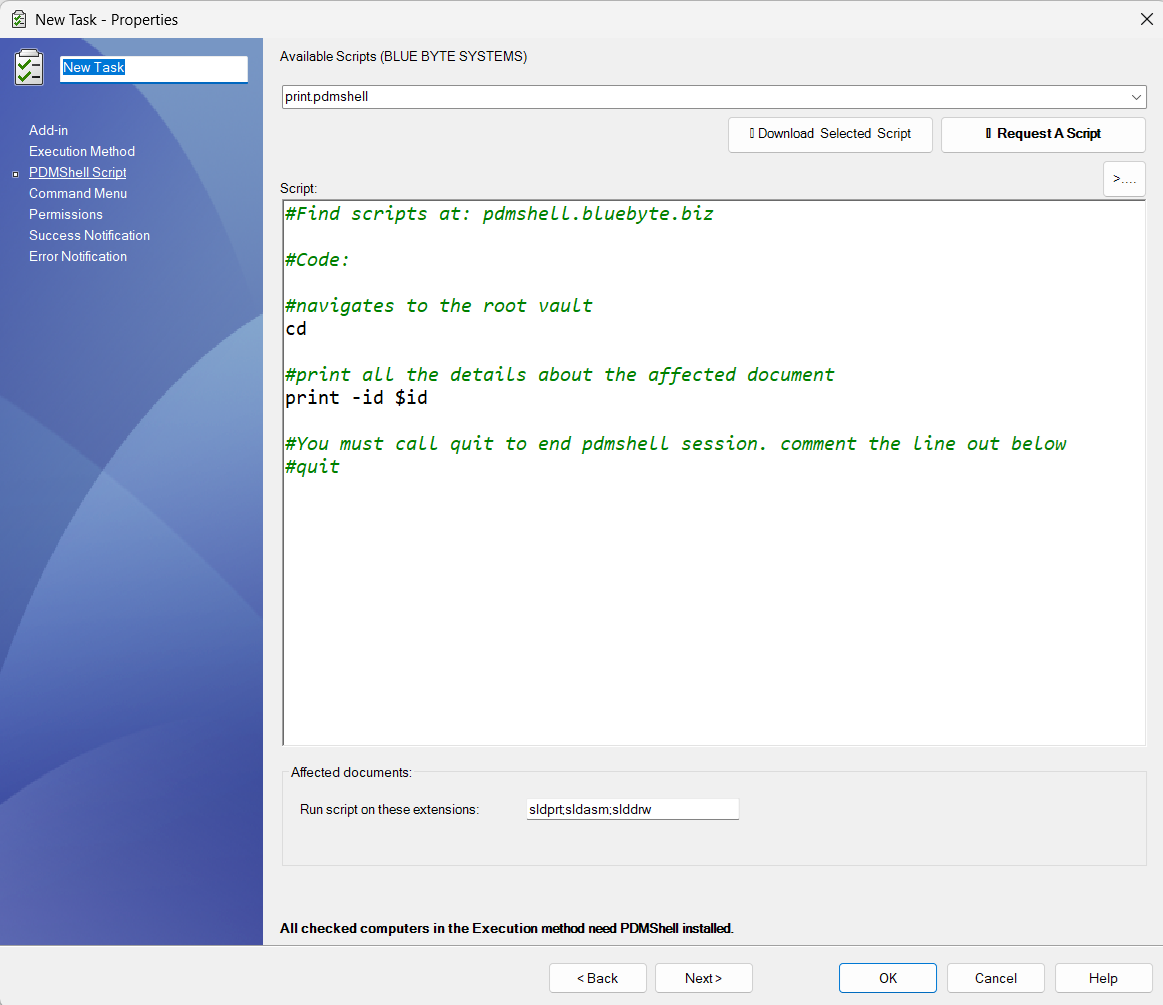
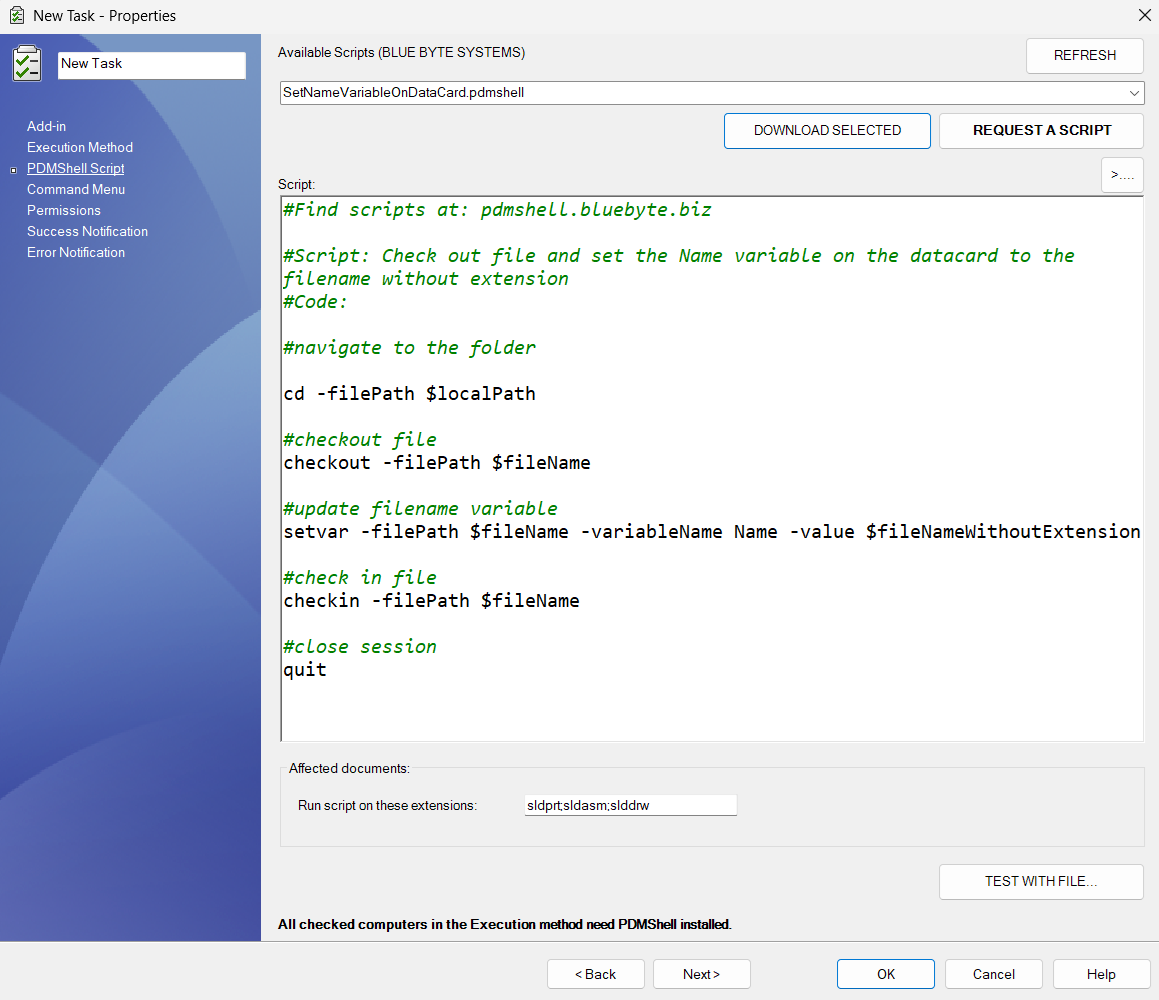
added docs

diff --git a/docs/src/RUNTASK.html b/docs/src/RUNTASK.html
@@ -1,0 +1,133 @@
+<!DOCTYPE html>
+<html>
+  <head>
+    <meta charset="utf-8">
+      <title>RUNTASK Command Documentation | PDMShell | SOLIDWORKS PDM | Powershell like features for SOLIDWORKS PDM Professional </title>
+      <meta name="viewport" content="width=device-width, initial-scale=1.0">
+      <meta name="title" content="RUNTASK Command Documentation | PDMShell | SOLIDWORKS PDM | Powershell like features for SOLIDWORKS PDM Professional ">
+      
+      <meta name="description" content="Execute a PDM task on specific file found or via search in the PDM vault.">
+      <link rel="icon" href="../favicon.ico">
+      <link rel="stylesheet" href="../public/docfx.min.css">
+      <link rel="stylesheet" href="../public/main.css">
+      <meta name="docfx:navrel" content="../toc.html">
+      <meta name="docfx:tocrel" content="toc.html">
+      
+      <meta name="docfx:rel" content="../">
+      
+      
+      <meta name="docfx:docurl" content="https://github.com/BlueByteSystemsInc/PDMShell/blob/master/src/RUNTASK.md/#L1">
+      <meta name="loc:inThisArticle" content="In this article">
+      <meta name="loc:searchResultsCount" content="{count} results for &quot;{query}&quot;">
+      <meta name="loc:searchNoResults" content="No results for &quot;{query}&quot;">
+      <meta name="loc:tocFilter" content="Filter by title">
+      <meta name="loc:nextArticle" content="Next">
+      <meta name="loc:prevArticle" content="Previous">
+      <meta name="loc:themeLight" content="Light">
+      <meta name="loc:themeDark" content="Dark">
+      <meta name="loc:themeAuto" content="Auto">
+      <meta name="loc:changeTheme" content="Change theme">
+      <meta name="loc:copy" content="Copy">
+      <meta name="loc:downloadPdf" content="Download PDF">
+
+      <script type="module" src="./../public/docfx.min.js"></script>
+
+      <script>
+        const theme = localStorage.getItem('theme') || 'auto'
+        document.documentElement.setAttribute('data-bs-theme', theme === 'auto' ? (window.matchMedia('(prefers-color-scheme: dark)').matches ? 'dark' : 'light') : theme)
+      </script>
+
+  </head>
+
+  <body class="tex2jax_ignore" data-layout="" data-yaml-mime="">
+    <header class="bg-body border-bottom">
+      <nav id="autocollapse" class="navbar navbar-expand-md" role="navigation">
+        <div class="container-xxl flex-nowrap">
+          <a class="navbar-brand" href="../index.html">
+            <img id="logo" class="svg" src="../images/fav.png" alt="PDMShell">
+            PDMShell
+          </a>
+          <button class="btn btn-lg d-md-none border-0" type="button" data-bs-toggle="collapse" data-bs-target="#navpanel" aria-controls="navpanel" aria-expanded="false" aria-label="Toggle navigation">
+            <i class="bi bi-three-dots"></i>
+          </button>
+          <div class="collapse navbar-collapse" id="navpanel">
+            <div id="navbar">
+              <form class="search" role="search" id="search">
+                <i class="bi bi-search"></i>
+                <input class="form-control" id="search-query" type="search" disabled placeholder="Search" autocomplete="off" aria-label="Search">
+              </form>
+            </div>
+          </div>
+        </div>
+      </nav>
+    </header>
+
+    <main class="container-xxl">
+      <div class="toc-offcanvas">
+        <div class="offcanvas-md offcanvas-start" tabindex="-1" id="tocOffcanvas" aria-labelledby="tocOffcanvasLabel">
+          <div class="offcanvas-header">
+            <h5 class="offcanvas-title" id="tocOffcanvasLabel">Table of Contents</h5>
+            <button type="button" class="btn-close" data-bs-dismiss="offcanvas" data-bs-target="#tocOffcanvas" aria-label="Close"></button>
+          </div>
+          <div class="offcanvas-body">
+            <nav class="toc" id="toc"></nav>
+          </div>
+        </div>
+      </div>
+
+      <div class="content">
+        <div class="actionbar">
+          <button class="btn btn-lg border-0 d-md-none" type="button" data-bs-toggle="offcanvas" data-bs-target="#tocOffcanvas" aria-controls="tocOffcanvas" aria-expanded="false" aria-label="Show table of contents">
+            <i class="bi bi-list"></i>
+          </button>
+
+          <nav id="breadcrumb"></nav>
+        </div>
+
+        <article data-uid="">
+<h1 id="runtask-command-documentation">RUNTASK Command Documentation</h1>
+
+<h2 id="description">DESCRIPTION:</h2>
+<p>The <code>RUNTASK</code> command allows you to execute a PDM task on a specific file or via search in the PDM vault.</p>
+<h2 id="syntax">SYNTAX:</h2>
+<pre><code class="lang-bash">runtask -taskName -filePath -search -recursive
+</code></pre>
+<h2 id="parameters">PARAMETERS:</h2>
+<p>The command requires the following parameters:</p>
+<ul>
+<li><code>taskName</code>: Task name. This can be found in under Tasks in the Administration tool.</li>
+<li><code>filePath</code>: Path to the affected file.</li>
+<li><code>search</code>: (Optional) Search query to find files to run the macro on.</li>
+<li><code>recursive</code>: (Optional) If set, search will include subfolders.</li>
+</ul>
+<h2 id="example">EXAMPLE:</h2>
+<pre><code class="lang-bash"># run PrintPDF task on an assembly
+ taskrun -TaskName &quot;PrintPDF&quot; -filePath &quot;Assembly.sldasm&quot;  
+</code></pre>
+
+</article>
+
+        <div class="contribution d-print-none">
+          <a href="https://github.com/BlueByteSystemsInc/PDMShell/blob/master/src/RUNTASK.md/#L1" class="edit-link">Edit this page</a>
+        </div>
+
+        <div class="next-article d-print-none border-top" id="nextArticle"></div>
+
+      </div>
+
+      <div class="affix">
+        <nav id="affix"></nav>
+      </div>
+    </main>
+
+    <div class="container-xxl search-results" id="search-results"></div>
+
+    <footer class="border-top text-secondary">
+      <div class="container-xxl">
+        <div class="flex-fill">
+          <span><a href='https://bluebyte.biz'>Blue Byte Systems Inc</a>. Made with Maple syrup 🍁 and Couscous 🍲.</span>
+        </div>
+      </div>
+    </footer>
+  </body>
+</html>

diff --git a/docs/src/TASKSCRIPT.html b/docs/src/TASKSCRIPT.html
@@ -90,8 +90,6 @@
 <p><strong>TaskScript</strong> is a custom PDM task add-in developed by <strong>Blue Byte Systems Inc.</strong> that allows you to execute <strong>PDMShell scripts</strong> the same way you would use the built-in <strong>Convert</strong> task.</p>
 <p><strong>This task can be requested upon purchase of a premium license of PDMShell.</strong></p>
 <p>With TaskScript, administrators can create configurable tasks that run custom <code>.pdmshell</code> scripts using the <code>pdmcli</code> engine on selected files within the vault.</p>
-<p><img src="../images/taskscript.png" alt="TaskScript UI"></p>
-<hr>
 <h2 id="key-features">Key Features</h2>
 <ul>
 <li>Execute PDMShell commands in response to PDM task triggers</li>
@@ -100,6 +98,38 @@
 <li>Supports file filtering based on extensions</li>
 <li>Evaluates placeholders like <code>$fileName</code>, <code>$localPath</code>, and more</li>
 <li>Handles script failure with detailed logging</li>
+</ul>
+<hr>
+<h2 id="pdmshell-scrit-page">PDMShell Scrit page</h2>
+<p><img src="../images/taskscript.png" alt="TaskScript UI"></p>
+<h3 id="1-available-scripts-blue-byte-systems">1. <strong>Available Scripts (BLUE BYTE SYSTEMS)</strong></h3>
+<ul>
+<li>A dropdown list showing available <code>.pdmshell</code> scripts.</li>
+<li>These can be downloaded.</li>
+<li>Selecting a script from the list loads it into the editor.</li>
+</ul>
+<h3 id="2-buttons">2. <strong>Buttons</strong></h3>
+<ul>
+<li><p><strong>DOWNLOAD SELECTED</strong><br>
+Downloads the currently selected script file.</p>
+</li>
+<li><p><strong>REQUEST A SCRIPT</strong><br>
+Opens a preformatted email to <code>amen@bluebyte.biz</code> with the subject <strong>&quot;Script Request&quot;</strong>.</p>
+</li>
+<li><p><strong>REFRESH</strong><br>
+Reloads the available script list.</p>
+</li>
+</ul>
+<h3 id="3-script-editor">3. Script Editor</h3>
+<ul>
+<li>A multi-line editable area for entering or modifying <code>.pdmshell</code> scripts.</li>
+<li>Lines starting with <code>#</code> are treated as <strong>comments</strong>.</li>
+<li>Syntax highlighting shows comments in <em>italic green</em> for better readability.</li>
+</ul>
+<h3 id="4-extensions-and-test-button">4. Extensions and test button</h3>
+<ul>
+<li>Specify the extensions to process.</li>
+<li><strong>TEST WITH FILE</strong> allows to test your script before running it.</li>
 </ul>
 <hr>
 <h2 id="example-script">Example Script</h2>

diff --git a/docs/src/toc.html b/docs/src/toc.html
@@ -160,6 +160,9 @@
                               <a href="runswmacro.html" name="" title="runSWMacro">runSWMacro</a>
                           </li>
                           <li>
+                              <a href="RUNTASK.html" name="" title="RunTask">RunTask</a>
+                          </li>
+                          <li>
                               <a href="SEARCH.html" name="" title="search">search</a>
                           </li>
                           <li>

diff --git a/src/TASKSCRIPT.md b/src/TASKSCRIPT.md
@@ -12,10 +12,6 @@ title: Run Script as a Task | PDMShell | SOLIDWORKS PDM
 
 With TaskScript, administrators can create configurable tasks that run custom `.pdmshell` scripts using the `pdmcli` engine on selected files within the vault.
 
-![TaskScript UI](../images/taskscript.png)
-
----
-
 ## Key Features
 
 - Execute PDMShell commands in response to PDM task triggers
@@ -25,6 +21,38 @@ With TaskScript, administrators can create configurable tasks that run custom `.
 - Evaluates placeholders like `$fileName`, `$localPath`, and more
 - Handles script failure with detailed logging
 
+---
+
+
+## PDMShell Scrit page
+![TaskScript UI](../images/taskscript.png)
+
+### 1. **Available Scripts (BLUE BYTE SYSTEMS)**
+
+- A dropdown list showing available `.pdmshell` scripts.
+- These can be downloaded.
+- Selecting a script from the list loads it into the editor.
+
+### 2. **Buttons**
+
+- **DOWNLOAD SELECTED**  
+  Downloads the currently selected script file.
+
+- **REQUEST A SCRIPT**  
+  Opens a preformatted email to `amen@bluebyte.biz` with the subject **"Script Request"**.
+
+- **REFRESH**  
+  Reloads the available script list.
+
+### 3. Script Editor
+
+- A multi-line editable area for entering or modifying `.pdmshell` scripts.
+- Lines starting with `#` are treated as **comments**.
+- Syntax highlighting shows comments in *italic green* for better readability.
+
+### 4. Extensions and test button
+ - Specify the extensions to process.
+ - **TEST WITH FILE** allows to test your script before running it.
 ---
 
 ## Example Script

diff --git a/src/RUNTASK.md b/src/RUNTASK.md
@@ -1,0 +1,32 @@
+---
+description: Execute a PDM task on specific file found or via search in the PDM vault.
+title: RUNTASK Command Documentation | PDMShell | SOLIDWORKS PDM
+---
+# RUNTASK Command Documentation
+
+## DESCRIPTION:
+
+The `RUNTASK` command allows you to execute a PDM task on a specific file or via search in the PDM vault. 
+
+## SYNTAX:
+
+```bash
+runtask -taskName -filePath -search -recursive
+```
+
+## PARAMETERS:
+
+The command requires the following parameters:
+
+
+- `taskName`: Task name. This can be found in under Tasks in the Administration tool.
+- `filePath`: Path to the affected file.
+- `search`: (Optional) Search query to find files to run the macro on.
+- `recursive`: (Optional) If set, search will include subfolders.
+
+## EXAMPLE:
+
+```bash
+# run PrintPDF task on an assembly
+ taskrun -TaskName "PrintPDF" -filePath "Assembly.sldasm"  
+ ```
